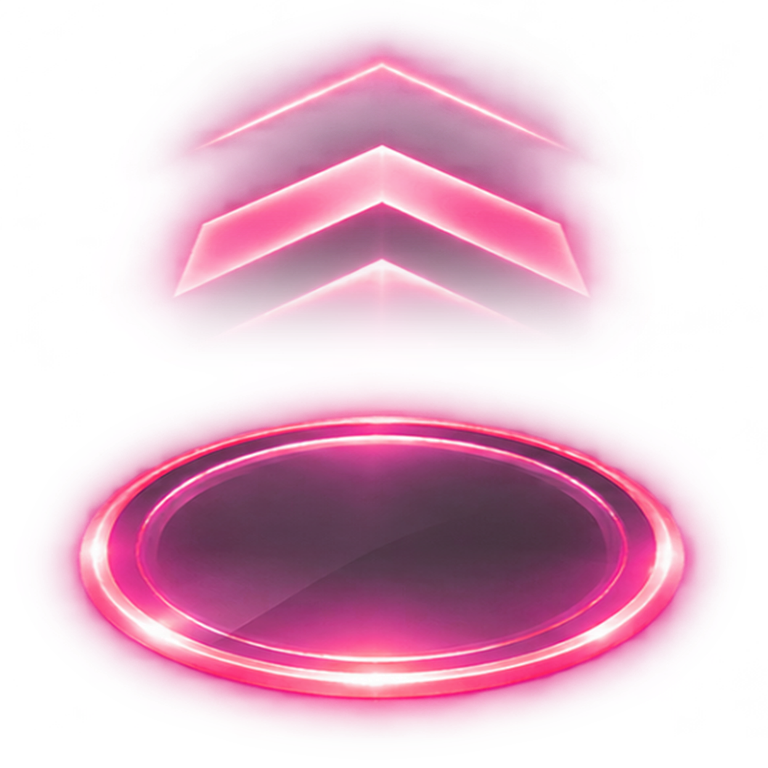
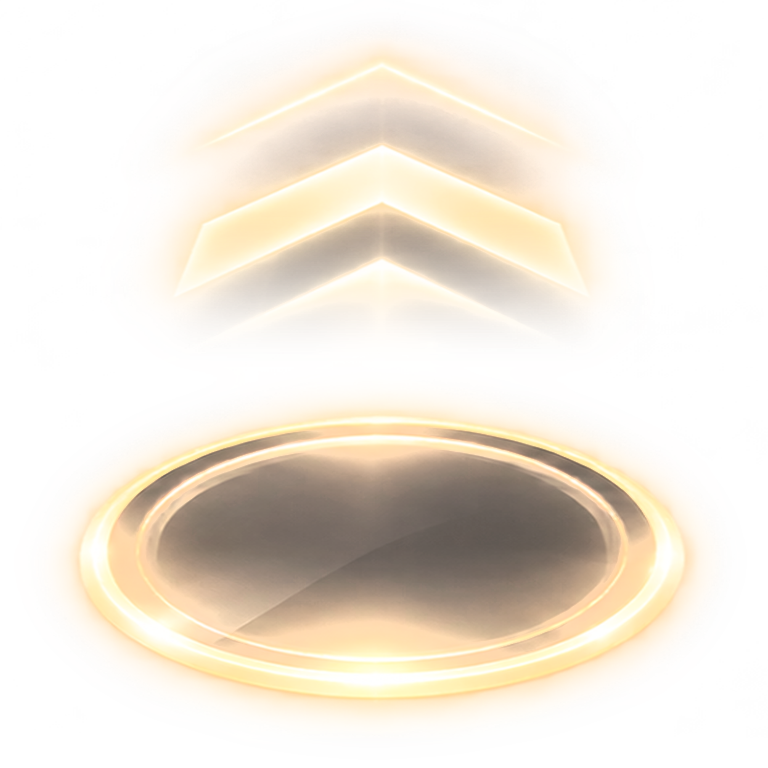
SYNK mode notes in shades of gold: copper holds and trails, champagne flicks

diff --git a/tools/make_synk_mode_art.py b/tools/make_synk_mode_art.py
@@ -105,16 +105,21 @@ def pulse(img, heat):
     return rgb, a
 
 
-# One colour per note type, by turning the gold art's hue (gold sits at hue 0.11): the
-# shapes, shading and white highlights stay exactly as supplied.
-HUE_TAP = 0.0       # gold, as supplied
-HUE_HOLD = 0.42     # cyan: holds, slides, their end caps and beams
-HUE_FLICK = -0.17   # hot pink
+# One shade of the supplied gold per note type (gold sits at hue 0.11): a small turn of
+# the hue, with the colour made richer or paler and brighter. The shapes, shading and
+# white highlights stay exactly as supplied.
+#               hue turn, richer, brighter
+SHADE_TAP = (0.0, 1.0, 1.0)       # gold, as supplied
+SHADE_HOLD = (-0.05, 1.5, 1.0)    # copper: holds and slides
+SHADE_TRAIL = (-0.045, 1.08, 1.0) # their beams: a little lighter and more orange, to stand off the road
+SHADE_FLICK = (0.01, .5, 1.3)     # champagne: pale, bright gold
+COPPER = np.array([255, 122, 46]) / 255   # the glow of a hold's end cap and bend diamonds
 
 
-def recolour(rgb, turn, richer=1.0):
-    """Turn the hue of an RGB array (0..1) by `turn` of a full circle."""
-    if turn == 0.0: return rgb
+def recolour(rgb, turn, richer=1.0, brighter=1.0):
+    """Turn the hue of an RGB array (0..1) by `turn` of a full circle, and scale its
+    saturation and brightness."""
+    if turn == 0.0 and richer == 1.0 and brighter == 1.0: return rgb
     mx = rgb.max(-1); mn = rgb.min(-1); span = mx - mn
     safe = np.maximum(span, 1e-6)
     r, g, b = rgb[..., 0], rgb[..., 1], rgb[..., 2]
@@ -122,17 +127,17 @@ def recolour(rgb, turn, richer=1.0):
     sat = np.clip(np.where(mx > 0, span / np.maximum(mx, 1e-6), 0) * richer, 0, 1)
     hue = (hue + turn) % 1.0
     k = (np.stack([5, 3, 1], -1) + hue[..., None] * 6) % 6
-    return mx[..., None] * (1 - sat[..., None] * np.clip(np.minimum(k, 4 - k), 0, 1))
+    return np.clip(mx * brighter, 0, 1)[..., None] * (1 - sat[..., None] * np.clip(np.minimum(k, 4 - k), 0, 1))
 
 
 def notes():
     ring = Image.open(SOURCE / "ring.png").convert("RGBA")
     box = outline(ring)
-    for prefix, size, dst, turn in [("tap", (212, 116), (2, 10, 208, 109), HUE_TAP), ("hold", (212, 116), (2, 10, 208, 109), HUE_HOLD)]:
+    for prefix, size, dst, shade in [("tap", (212, 116), (2, 10, 208, 109), SHADE_TAP), ("hold", (212, 116), (2, 10, 208, 109), SHADE_HOLD)]:
         fitted = place(ring, box, dst, size)
         for i, heat in enumerate(HEAT, start=1):
             rgb, a = pulse(fitted, heat)
-            save(recolour(rgb, turn), a, OUT / f"{prefix}{i}.png")
+            save(recolour(rgb, *shade), a, OUT / f"{prefix}{i}.png")
 
 
 # How far above the ring's top edge (source px) the flick's chevron stack starts to thin out.
@@ -169,7 +174,7 @@ def flick():
         rising = place(chevron_img, src, (ox, oy, ox + w, oy + h), size)
         frame = base.copy(); frame.alpha_composite(rising)
         rgb, a = pulse(frame, HEAT[min(i, 2)] * .6)
-        save(recolour(rgb, HUE_FLICK, 1.1), a, OUT / f"flick{i + 1}.png")
+        save(recolour(rgb, *SHADE_FLICK), a, OUT / f"flick{i + 1}.png")
 
 
 def trail():
@@ -190,7 +195,7 @@ def trail():
     alpha = mean[..., 3]
     rgb = mean[..., :3] / np.maximum(alpha, 1e-6)[..., None]
     alpha = alpha * smooth(0, 6, np.minimum(np.arange(256), 255 - np.arange(256)))[None, :]   # soft outer edge
-    save(np.repeat(recolour(rgb, HUE_HOLD), 4, axis=0), np.repeat(alpha, 4, axis=0), OUT / "trail_profile.png")
+    save(np.repeat(recolour(rgb, *SHADE_TRAIL), 4, axis=0), np.repeat(alpha, 4, axis=0), OUT / "trail_profile.png")
 
 
 def pause():
@@ -297,12 +302,11 @@ def hit():
 
 def tail():
     """The end of a hold or slide: not a small ring like the notes but a thin flat bar lying
-    across the trail, white-hot along its middle with a cyan glow, tapering to a point at
+    across the trail, white-hot along its middle with a copper glow, tapering to a point at
     each side. Six frames on the notes' beat pulse, in the 132 x 72 tail sprite."""
     w, h, ss = 132, 72, 4
     Y, X = np.mgrid[0:h * ss, 0:w * ss].astype(float) / ss
     dx, dy = np.abs(X - 66.0), np.abs(Y - 36.0)
-    cyan = np.array([60, 216, 255]) / 255
     half = 56.0                                              # half the bar's length
     along = smooth(half, half - 16, dx)                      # tapers to a point at each side
     core = np.exp(-(dy / (1.5 * along + .2)) ** 2) * (dx < half)
@@ -311,19 +315,18 @@ def tail():
         glow = np.exp(-dy / (5.0 + 3.0 * heat)) * smooth(half + 6, half - 22, dx) * (.30 + .30 * heat)
         white = np.clip(core * (.85 + .15 * heat), 0, 1)
         a = np.clip(body + glow, 0, 1) * smooth(0, 5, np.minimum(36.0 - dy, 66.0 - dx))
-        rgb = cyan + (WHITE - cyan) * white[..., None]
+        rgb = COPPER + (WHITE - COPPER) * white[..., None]
         save(rgb, a, OUT / f"tail{i}.png", (w, h))
 
 
 def connector():
     """The marker at each bend of a slide, in the tail cap's 132 x 72 sprite. Not a small
-    ring like the notes: a white-hot diamond lying on the road with a bright rim, a cyan
+    ring like the notes: a white-hot diamond lying on the road with a bright rim, a copper
     glow and a short tick to either side, so a bend reads at a glance against the beam."""
     w, h, ss = 132, 72, 4
     Y, X = np.mgrid[0:h * ss, 0:w * ss].astype(float) / ss
     dx, dy = np.abs(X - 66.0), np.abs(Y - 36.0)
     d = dx / 40.0 + dy / 21.0                               # 1 on the diamond's edge
-    cyan = np.array([60, 216, 255]) / 255
     inside = smooth(1.0, .93, d)
     rim = np.exp(-((d - 1.0) / .075) ** 2)
     inner = np.exp(-((d - .62) / .04) ** 2) * .55            # a fine second facet line
@@ -332,7 +335,7 @@ def connector():
     core = np.clip(1 - d, 0, 1) ** .7
     white = np.clip(inside * (.72 + .28 * core) + rim + inner + tick, 0, 1)
     a = np.clip(inside + rim + glow + tick, 0, 1)
-    rgb = cyan + (WHITE - cyan) * white[..., None]
+    rgb = COPPER + (WHITE - COPPER) * white[..., None]
     save(rgb, a, OUT / "connector.png", (w, h))
 
 
